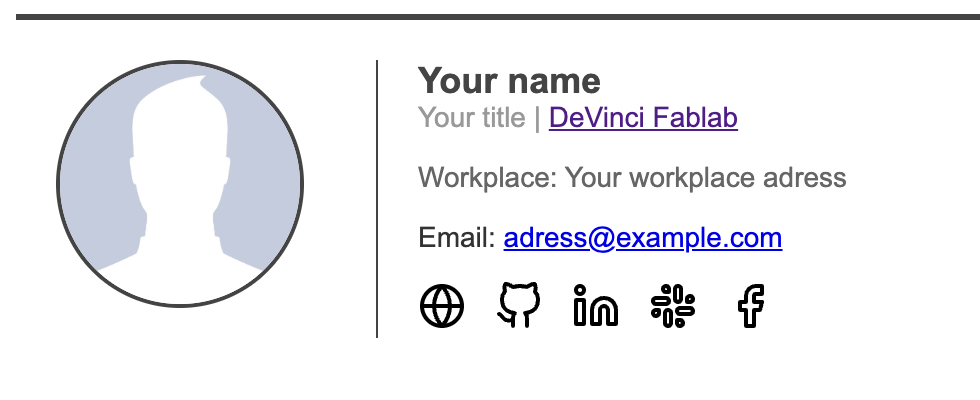
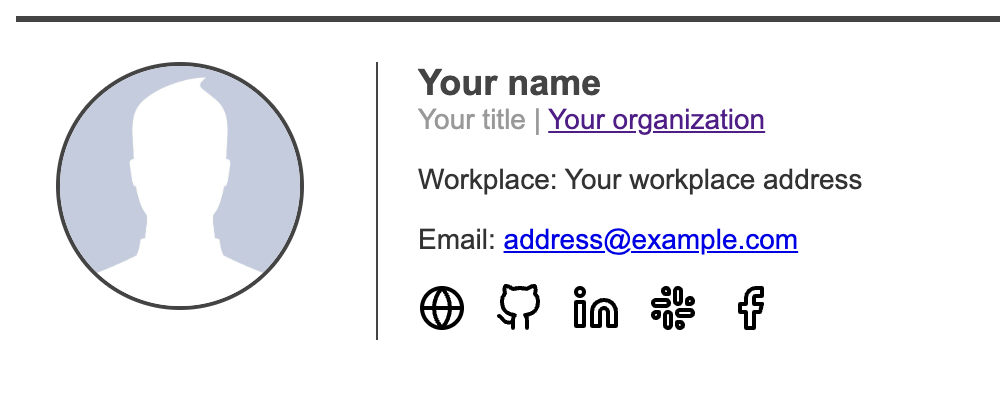
🌟 (fields) can modify organism name and link

diff --git a/output.html b/output.html
@@ -67,14 +67,16 @@
     <div class="signature">
         <div class="logo">
             
-                <img src="https://raw.githubusercontent.com/MorganKryze/Signature-Generator/main/src/resources/default.jpg" class="overlay-photo" alt="Photo">
+                <a href="https://dvic.devinci.fr/fablab/">
+                    <img src="https://raw.githubusercontent.com/MorganKryze/Signature-Generator/main/src/resources/icons/fablab.svg" class="overlay-logo" alt="DeVinci Fablab">
+                </a>
             
         </div>
         <div class="details">
             <div class="name">Your name</div>
-            <div class="title">Your title | <a href="https://dvic.devinci.fr/fablab/">DeVinci Fablab</a></div>
+            <div class="title">Your title | <a href="https://example.com">Your organization</a></div>
             <div class="contact">
-                <p><em>Workplace: Your workplace address</em></p>
+                <p>Workplace: Your workplace address</p>
                 <p>Email: <a href="mailto:address@example.com">address@example.com</a></p>
             </div>
             <div class="social-media">

diff --git a/src/signature-template.html b/src/signature-template.html
@@ -76,9 +76,9 @@
         </div>
         <div class="details">
             <div class="name">{{ name }}</div>
-            <div class="title">{{ title }} | <a href="https://dvic.devinci.fr/fablab/">DeVinci Fablab</a></div>
+            <div class="title">{{ title }} | <a href="{{ organization_url }}">{{ organization_name }}</a></div>
             <div class="contact">
-                <p><em>Workplace: {{ workplace }}</em></p>
+                <p>Workplace: {{ workplace }}</p>
                 <p>Email: <a href="mailto:{{ email }}">{{ email }}</a></p>
             </div>
             <div class="social-media">

diff --git a/README.md b/README.md
@@ -2,14 +2,14 @@
 
 > A personal or professional email signature generator.
 
-| ![alt text](src/resources/screenshot_logo.png) | ![alt text](src/resources/screenshot_photo.png) |
+| ![with logo 200px 490px](src/resources/screenshot_logo.png) | ![with photo 200px 490px](src/resources/screenshot_photo.png) |
 |:---:|:---:|
 
 ## Getting Started
 
 ### Prerequisites
 
-To use this template, you will need any editor that can open a yml file (like [Visual Studio Code](https://code.visualstudio.com/) for example).
+To use this template, you will need any editor that can open a yaml file (like [Visual Studio Code](https://code.visualstudio.com/) for example).
 
 ### Install
 
@@ -44,10 +44,11 @@ photo: https://raw.githubusercontent.com/MorganKryze/Signature-Generator/main/sr
 ```yml
 name: Your name
 title: Your title
-email: adress@example.com
+organization: Your organization
 workplace: Your workplace address
+email: address@example.com
 ```
-*To change the name, title, email or workplace, just replace the text with your own.*
+*To change the name, title, organization name, email or workplace, just replace the text with your own.*
 
 ```yml
 social_media:
